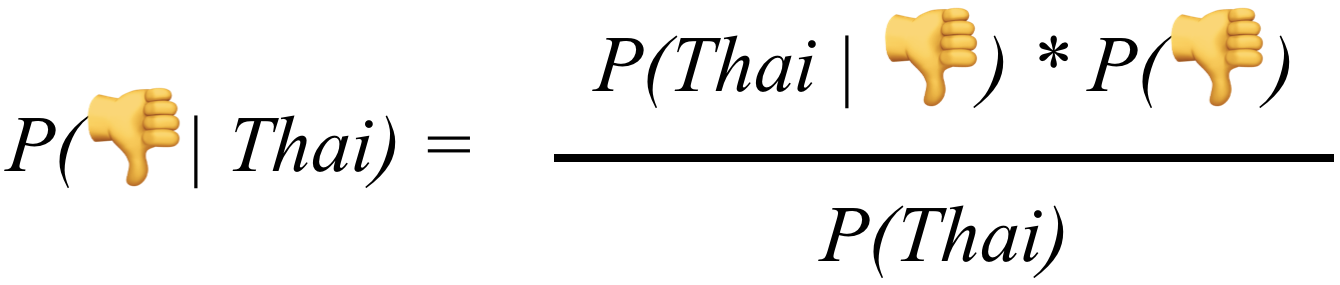
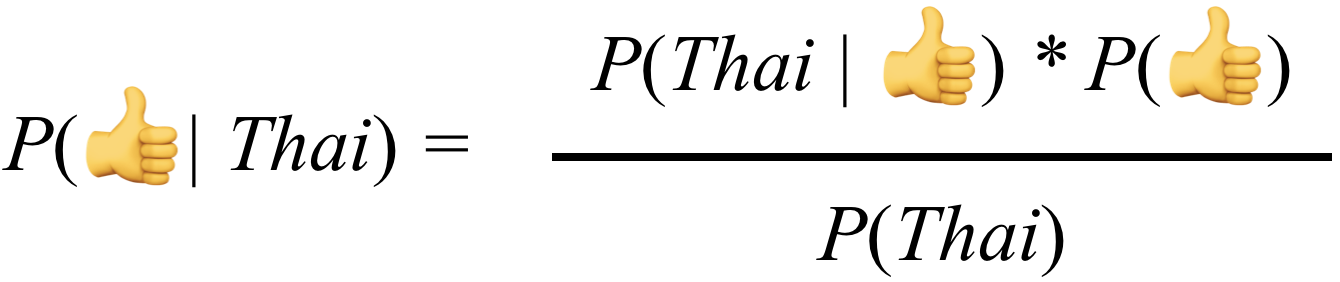
Working on new post

diff --git a/_posts/2018-08-27-machine-learning-without.md b/_posts/2018-08-27-machine-learning-without.md
@@ -84,7 +84,7 @@ Then they work out the relative probability of Thai being 👎:<br>
 
 Now it's simple. The most *probable* is whichever one has a higher relative probability. In this case it is 👍, so we can fill that in and say they're probably happy with their friend's choice of food.
 
-[]()
+<img src="https://raw.githubusercontent.com/AIwithSwift/AIwithSwift.github.io/master/assets/images/thai2.png" class="center-small" />
 
 But if we look at the input again, we probably could have just asked which outcome most commonly corresponded with the given input (Thai) in the past data. We would have gotten the same answer from many people just from visual inspection. It is a very straightforward assumption: the outcome that has most often corresponded with this input in the past will be the outcome in this case. The only reason we call this "artificial intelligence" is because it's a method often employed with complex parametric input that would be unfeasible for a human to do on paper over and over again for each input. So this AI is really just automated maths, as you'll soon see the even the most mysterious and complex machine intelligence always is.
 
